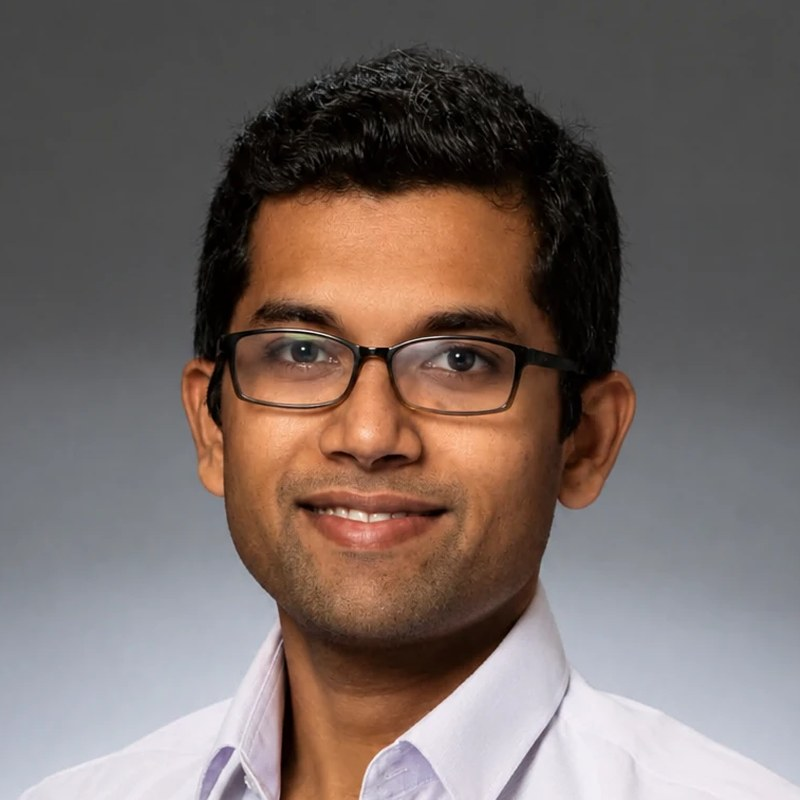
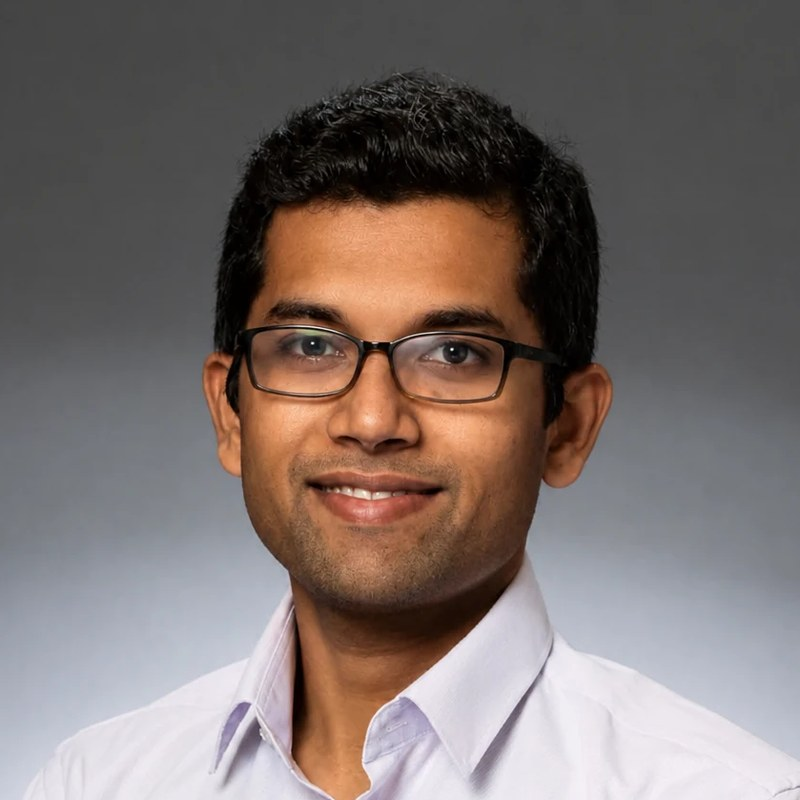
Circular LinkedIn-style profile photo
🤖 Generated with Claude Code at The Home Depot

Changed region(s): [[0.0625, 0.0625, 1.0, 1.0]]

diff --git a/style.css b/style.css
@@ -66,7 +66,7 @@ h1{font-size:clamp(38px,5.4vw,60px);line-height:1.05;letter-spacing:-.035em;marg
 .btn.primary:hover{background:var(--accent-strong)}
 .btn.ghost{background:transparent;border-color:transparent;color:var(--accent);padding-left:8px}
 .hero-side{display:flex;flex-direction:column;align-items:center;gap:20px}
-.portrait img{width:min(340px,72vw);height:auto;aspect-ratio:1;border-radius:28px;object-fit:cover;box-shadow:0 24px 60px rgba(20,32,46,.18);border:6px solid var(--surface)}
+.portrait img{width:min(340px,72vw);height:auto;aspect-ratio:1;border-radius:50%;object-fit:cover;box-shadow:0 0 0 1px var(--line),0 20px 50px rgba(20,32,46,.18);border:5px solid #fff}
 .badge-row{display:flex;gap:14px;background:var(--surface);border:1px solid var(--line);border-radius:16px;padding:10px 16px;box-shadow:var(--shadow)}
 .badge-row img{width:64px;height:64px;transition:transform .15s}
 .badge-row a:hover img{transform:scale(1.08)}
